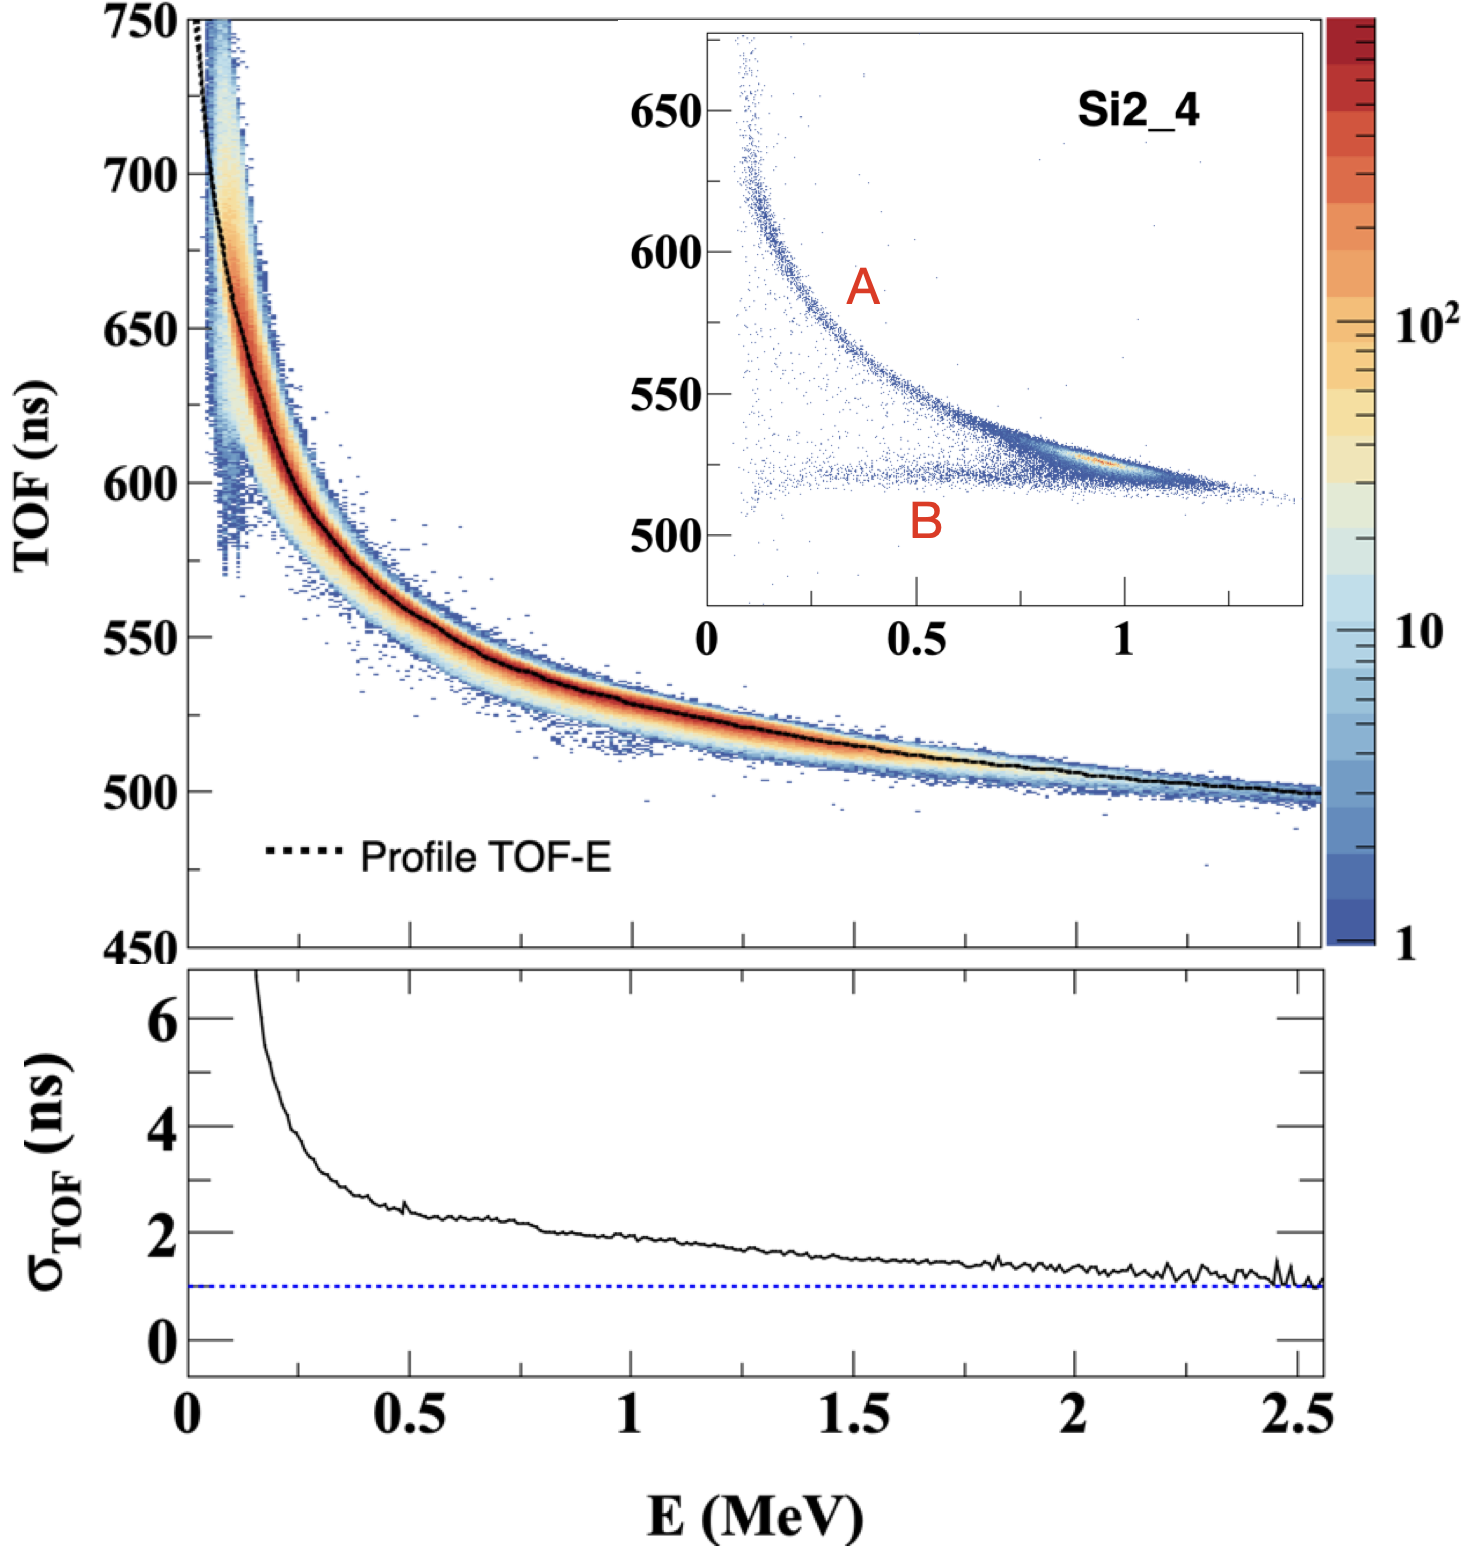
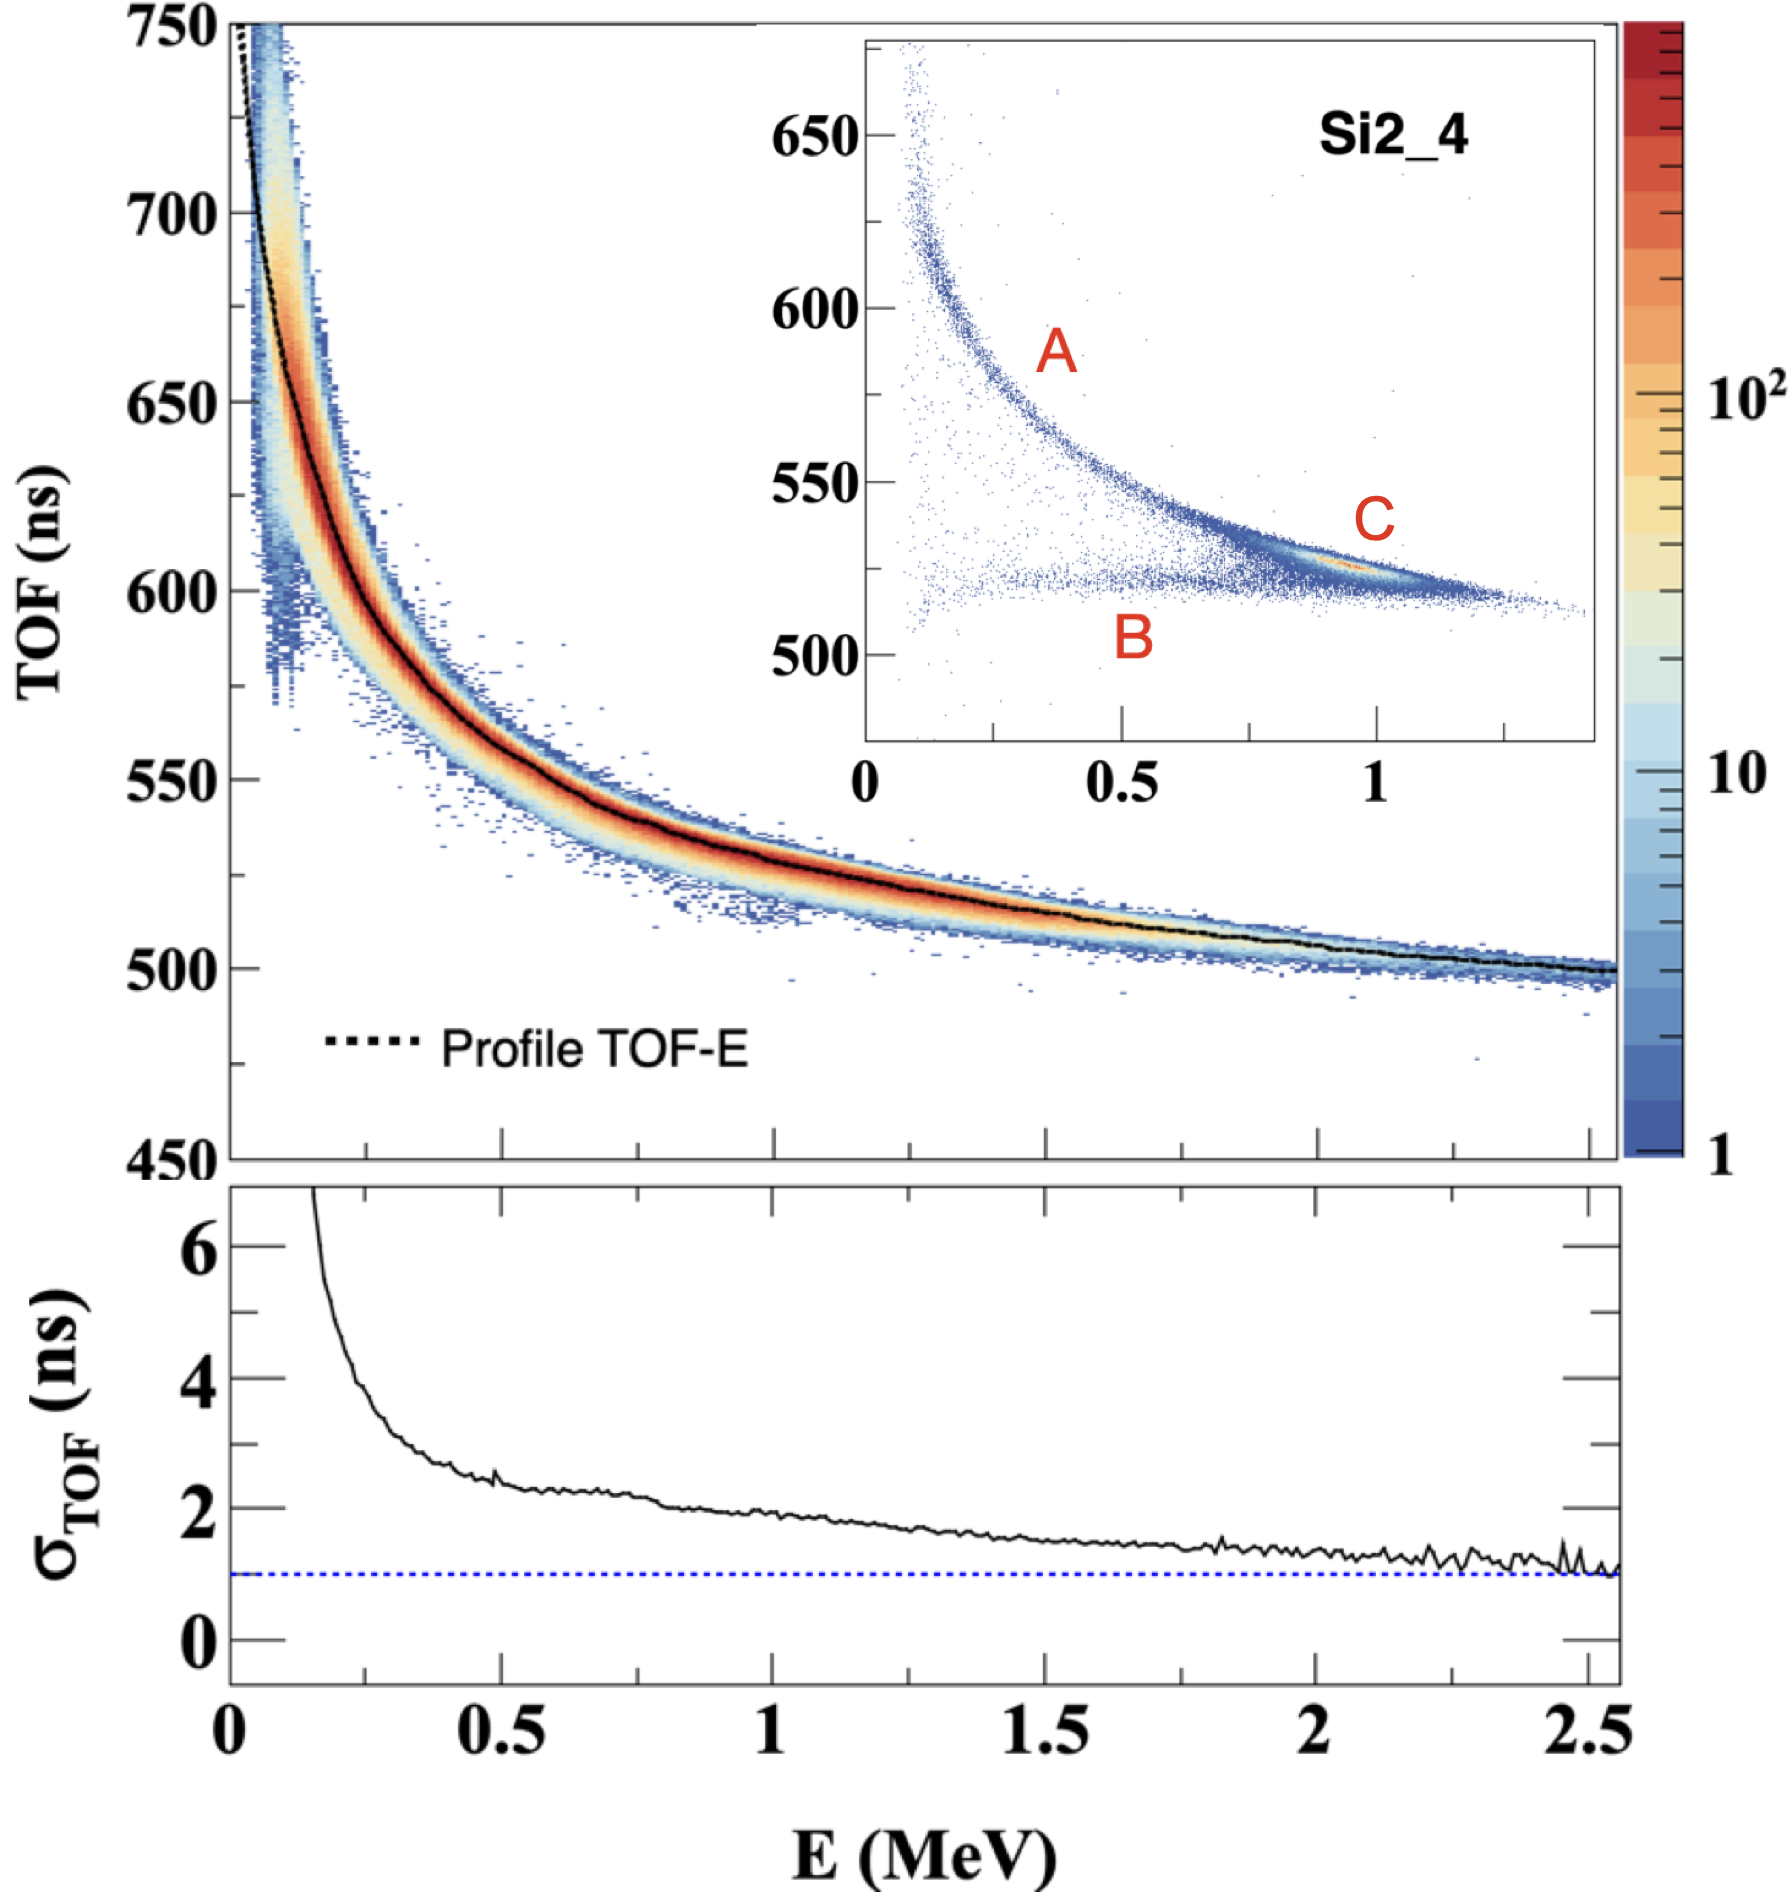
sec. 6.4 finished

diff --git a/daq/nim.tex b/daq/nim.tex
@@ -252,7 +252,7 @@ $0.6\sim\SI{60}{\MeV}$ is required of the recoil detector.
   \centering
   \includegraphics[width=0.35\textwidth]{./recoil_schematic.png}
   \caption{(a) Schematic view of the recoil detector configuration, seen from the
-    top; (b) Layout of the four recoil sensors, seen from IP.}
+    top; (b) Layout of the four recoil sensors, seen from the IP.}
   \label{fig:recoil_schematic}
 \end{figure}
 
@@ -310,7 +310,7 @@ More technical information and the detailed performance tests of the recoil dete
 The forward detector consists of 8 detector modules, which are
 grouped into 4 pairs as shown in Fig. \ref{fig:setup}.
 They are installed symmetrically along +X, -X, +Y and -Y axes, with a minimal distance of \SI{3}{\cm} from the beam axis.
-The first layer of each pair is installed \SI{4.6}{\meter} downstream of IP, and the separation between the two layer is \SI{20}{\cm}.
+The first layer of each pair is installed \SI{4.6}{\meter} downstream of the IP, and the separation between the two layer is \SI{20}{\cm}.
 Only the pair on +X is used for the coincidence measurement with the recoil detector.
 The other 3 pairs are used for beam position tuning during beam preparation and
 monitoring during the experiment.
@@ -322,7 +322,7 @@ This corresponds to an angular acceptance of the scattering angle $\theta$ from 
 % from \SIrange{0.0008}{\0.001}{\tmom} longitudinally over the COSY energy range.
 Due to the kinematics of elastic scattering, coincidences between the forward
 detector and the recoil detector are limited not only by the size of the forward
-detector but also by the finite emittance of the beam at IP.
+detector but also by the finite emittance of the beam at the IP.
 Fig. \ref{fig:forward_acceptance} shows an example of the impact of beam emittance on the
 effective cross-sectional coverage.
 The fully-covered region shrinks with the increasing of beam emittance. 
@@ -818,7 +818,7 @@ The response of each strip to the elastic scattering events from the IP is descr
 very well by the Crystal-Ball function\cite{crystal_ball}, which is composed of a Gaussian core and a power-law tail on each side of the core.
 For the strips at large recoil angle, an accurate estimate of the parameters of
 the backgroud components is possible by fitting the sidebands around the elastic peak.
-Extended binned Maximum-Likelihood fit over the full energy range, including both the background and the
+An extended binned Maximum-Likelihood fit over the full energy range, including both the background and the
 elastic peak, is then carried out to extract the parameters of the response function and the event rate under the peak.
 An example of the combined fit is shown in Fig. \ref{fig:e_fit}.
 % The sum of multiple Cystal-Ball functions, which share the same shape parameters and
@@ -885,41 +885,41 @@ For the strips which are covered by the forward detector, the coincidence betwee
 \subsection{Event selection with the TOF-E relation}
 \label{sec:tofe_selection}
 
-Most background events are already supressed by requiring that the forward detector has a valid
-hit from the beam particle.
-The more accurate selection of elastic scattering events is achieved by using the TOF-E relation.
+Most background events are already suppressed by requiring the forward detector to have a valid hit from the beam particle.
+A more accurate selection of elastic scattering events is achieved by using the TOF-E relation.
 The time-of-flight (TOF) of the recoil proton and its kinetic energy (E)
 have a fixed relation $TOF = l\sqrt{m_p/2E}$, where $l$ is the distance of
-the recoil detector to IP and $m_p$ is the proton mass.
-Due to the small variation of the flight time of the scattering beam particle,
-TOF of the recoil proton can be approximated by the difference between the hit time of the recoil detector and the forward detector.
+the recoil detector to the IP and $m_p$ is the proton mass.
+Due to the negligibly small variation of the flight time of the scattering beam particle,
+the TOF of the recoil proton can be approximated by the difference between the hit time of the recoil detector and the forward detector.
 
 % Elastic selection based on TOF-E
 % The typical TOF-E spectrum from a single strip is shown in the inner subplot of Fig. \ref{fig:tof-e}.
-Two bands of events, which split from the elastic peak, are observed in the raw TOF-E spectrum on each strip, as shown in the inner subplot of Fig. \ref{fig:tof-e}.
+Two bands of events, which connect to the elastic peak, are observed in the raw TOF-E spectrum of each strip, as shown in the inset of Fig. \ref{fig:tof-e}.
 Both bands are generated by the elastically-recoiled protons, with: 1) band A from
 the the interaction of the beam particle with the residual gas in the beam pipe; 2)
 band B from the events in which the recoil protons hit the edge of the strip and
-deposit partial energy in the sensor.
+only deposit part of their energy in the sensor.
 \begin{figure}[b!]
   \centering
   \includegraphics[width=0.42\textwidth]{./tofe_tsigma.png}
   % \includegraphics[width=0.4\textwidth]{./tofe_cut.png}
   \caption{
-    The overall TOF-E spectrum of selected elastic scattering events at
-    \SI{2.2}{\momentum} and its associated TOF-E curve obtained from profiling
-    along E-axis.
-    Typical raw TOF-E spectrum on a single strip is shown in the inner subplot.}
+    The upper frame shows the TOF-E spectrum of all strips for selected elastic
+    scattering events at \SI{2.2}{\momentum}.
+    A typical raw TOF-E spectrum for a single strip is shown in the inset, in
+    which region C is the elastic peak.
+    The lower frame shows the time resolution for narrow bins of energy
+    (\SI{10}{\keV} bin width).
+    }
   \label{fig:tof-e}
 \end{figure}
-The events of the elastic peak and band A are cut out roughly and filled into an
+The events of the elastic peak and band A are selected roughly and filled into an
 overall TOF-E spectrum of elastic scattering events from all strips.
-This spectrum is profiled every \SI{10}{\keV} step along the E-axis,  and a
-smooth, data-deduced TOF-E curve is obtained as show in the main plot of Fig. \ref{fig:tof-e}.
-The standard deviation of TOF ($\sigma_{TOF}$) at each step is also extracted and shown in the bottom plot of Fig. \ref{fig:tof-e}.
-$\sigma_{TOF}$ reaches a limit value of $\sim$\SI{1}{\ns} at very large energy,
-which can be considered as the intrinsic timing resolution of the recoil
-detector since the forward detector has much smaller resolution (see Sec. \ref{sec:fwd_performance}).
+This spectrum is divided into \SI{10}{\keV} steps,  and a smooth, data-deduced TOF-E curve is obtained as shown in the main plot of Fig. \ref{fig:tof-e}.
+The standard deviation of TOF ($\sigma_{TOF}$) for each step is also extracted and shown in the bottom frame of Fig. \ref{fig:tof-e}.
+$\sigma_{TOF}$ reaches an asymptotic value of $\sim$\SI{1}{\ns} for high energies, which can be considered as the intrinsic timing resolution of the recoil
+detector since the forward detector has much better resolution (see Sec. \ref{sec:fwd_performance}).
 At $E < \SI{250}{\keV}$, $\sigma_{TOF}$ is dominated by the large derivative
 of the TOF-E relation and deteriates rapidly.
 % This selection effectively filter out all the full elastic events as show in the
@@ -937,40 +937,45 @@ of the TOF-E relation and deteriates rapidly.
 % combined fit using coulomb background and coverage of the fwd acceptance
 The TOF-E curve is combined with a $[-5\sigma_{TOF}, 5\sigma_{TOF}]$ window to select the elastic scattering events on each strip.
 A clean energy spectrum is obtained after the selection and the elastic peak shows up clearly.
-Results from three strips at different recoil angles are shown in Fig. \ref{fig:cut}.
+The results for three strips at different recoil angles are shown in Fig. \ref{fig:cut}.
 \begin{figure}[b!]
   \centering
   \includegraphics[width=0.45\textwidth]{./tofe_cut_comparison.png}
-  \caption{The energy spectra of TOF-E selected events (black dots) from strips at
-    three recoil angles. The black lines are the spectra from all events and the grey spectra
-    are from the supressed background events.}
+  \caption{The energy spectra of TOF-E selected events (black dots) from strips at three recoil angles. The black lines are the spectra from all events and the grey spectra are from the events rejected since they had no coincidence with the forward detector.}
   \label{fig:cut}
 \end{figure}
 For strips which are fully covered by the forward detector, the spectrum of the
-surpressed background events has a smooth transition over the elastic peak range
+suppressed background events has a smooth transition over the elastic peak range
 as shown in Fig. \ref{fig:cut} (b).
 This indicates a high efficiency of the selection condition.
 With increasing recoil angle, the forward detector gradually loses the full coverage
 of the recoil strip and a small elastic peak appears in the background spectrum
 as shown in Fig. \ref{fig:cut} (c).
-On the other hand, with decreasing recoil angle, the target thickness can't be
-ignored and the forward detector starts to lose the coverage of the full target profile due
+On the other hand, with decreasing recoil angle, the finite thickness of the
+cluster jet target can not be ignored and the forward detector starts to lose the coverage of the full target profile due
 to the lower limit of the acceptance as shown in Fig. \ref{fig:cut} (a).
+In comparison to Fig. \ref{fig:forward_acceptance}, the strips with all events
+inside the red box are shown here in Fig. \ref{fig:cut} (b).
+The strips where some of the events are lost above or below the red box are
+shown in Fig. \ref{fig:cut} (c).
+Strips with a significant fraction of events located near the vertical red line
+at $X = \SI{3}{\cm}$ are shown in Fig. \ref{fig:cut}.
 
-The remaining background in the selected events comes from the elastic scattering off the residual gas.
+The remaining background in the selected events comes from elastic scattering off the residual gas.
 % The spectrum of the selected elastic events has a contribution from the residual
 % gas interaction.
 The shape of this background is well described by the Coulomb elastic scattering cross
 section, due to the uniform distribution of the residual gas and the rapid decrease of the elastic scattering cross section beyond the Coulomb region.
-Extended unbinned Maximum-Likelihood fit with a summed model of the Coulomb elastic scattering formula and the Crystal-Ball
-function is used to extract the parameters of the response function and the yield of elastic events from the target body. 
-The fit results for the three example strips are also shown in Fig. \ref{fig:cut}.
+The extended unbinned Maximum-Likelihood fit with a sum of the Coulomb elastic scattering formula and the Crystal-Ball
+function is used to extract the parameters of the response function and the
+yield of elastic events from the core of the cluster jet stream. 
+Fit results for the three example strips are also shown in Fig. \ref{fig:cut}.
 It's found that the fit quality deteriates when the full shape of the target profile is not available.
-This limits the lower range of $|t|$ measurement to $\sim$\SI{0.001}{\tmom} at $P_{beam}=\SI{2.2}{\momentum}$.
+This limits the lower range of the $|t|$ measurement to $\sim$\SI{0.001}{\tmom} at $P_{beam}=\SI{2.2}{\momentum}$.
 
 \subsection{Minimum measurable $|t|$}
 \label{sec:minimum_t}
-The spectra of the supressed background events on the strips which are fully covered by the
+The spectra of the suppressed background events on the strips which are fully covered by the
 forward detector can be used as the template model to describe the background
 shape on strips at smaller recoil angles.
 Thus, the lower range of |t| measurement is extended below the limit of the TOF-E selection method.
@@ -1019,7 +1024,7 @@ This is caused by the changing electronic noise level in the COSY environment
 and the limited performance of the mask gate based event synchronization.
 Due to the self-triggering desgin, different noise triggering levels will change the corresponding trigger efficiency.
 Thus, the mask gate in the trigger logic is proposed to be removed and the timestamp-based synchronzation to be used in the future experiment.
-A better method for the noise supression is also under investigation.
+A better method for the noise suppression is also under investigation.
 
 \bibliographystyle{elsarticle-num}
 \bibliography{reference}
